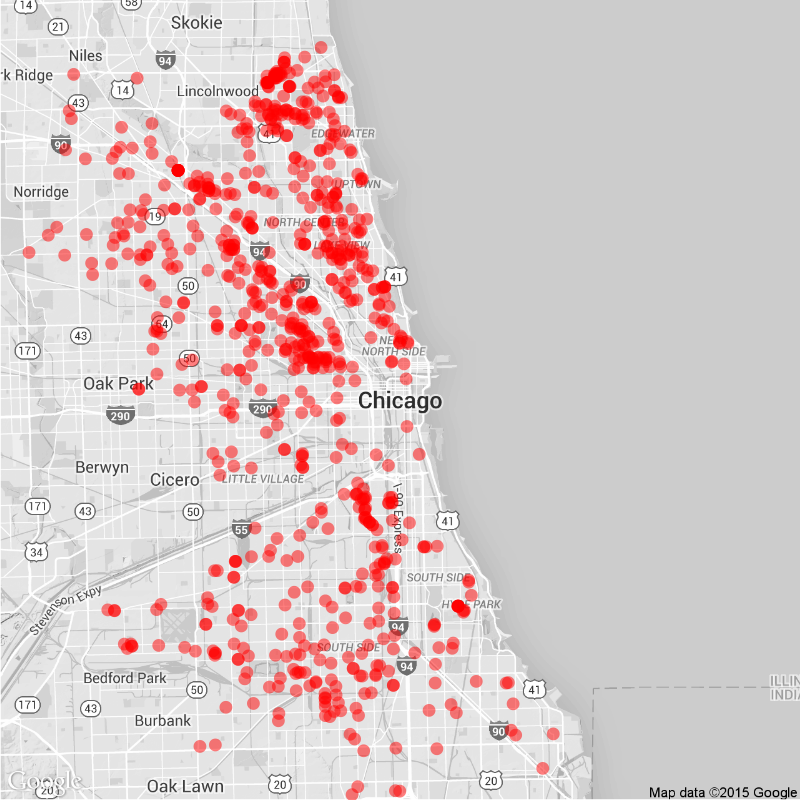
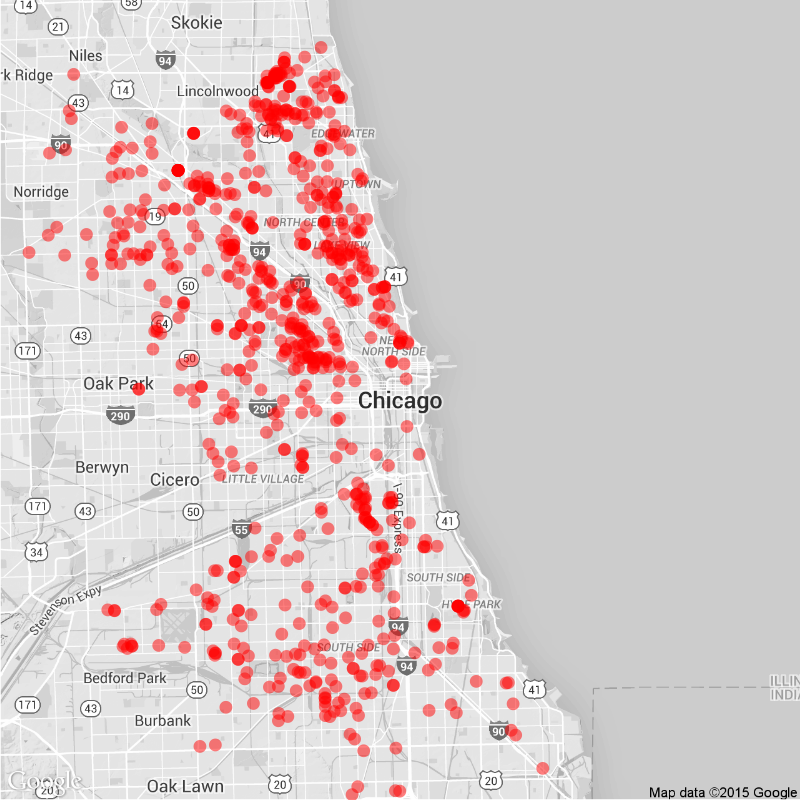
Daily Maps

diff --git a/daily.md b/daily.md
@@ -15,22 +15,22 @@ tags: Chicago NYC weekly daily rats
 
 ### Daily
 
-Yesterday (May 29), there were 117 calls to Chicago's 311 line about rats.
+Yesterday (May 30), there were 38 calls to Chicago's 311 line about rats.
 ![Chicago rat calls to 311 weekly map]({{ site.cityimages }}/daily/Chicago_Rat_Map_Daily.png)
 
 ### Weekly
-Between May 23 and May 29, there were 795 calls to Chicago's 311 line about rats. The average number of weekly calls for this time of year is 731.
+Between May 24 and May 30, there were 794 calls to Chicago's 311 line about rats. The average number of weekly calls for this time of year is 731.
 ![Chicago rat calls to 311 weekly map]({{ site.cityimages }}/daily/Chicago_Rat_Map_Weekly.png)
 ***
 # New York City <a id="nyc"><a>
 
 ### Daily
 
-Yesterday (May 29), there were 0 calls to New York City's 311 line about rats.
+Yesterday (May 30), there were 0 calls to New York City's 311 line about rats.
 ![NYC rat calls to 311 weekly map]({{ site.cityimages }}/daily/NYC_Rat_Map_Daily.png)
 
 ### Weekly
-Between May 23 and May 29, there were 0 calls to New York City's 311 line about rats. The average number of weekly calls for this time of year is 271.
+Between May 24 and May 30, there were 0 calls to New York City's 311 line about rats. The average number of weekly calls for this time of year is 271.
 ![NYC rat calls to 311 weekly map]({{ site.cityimages }}/daily/NYC_Rat_Map_Weekly.png)
 
 Each red dot represents one call about a rat seen in that location. The dots are transparent, so multiple calls from one location will be seen as a solid dot. The usual caveats apply: more calls do not necessarily mean that there are more rats in that location than other parts of the city. A cluster of dots could indicate that one resident is unusually vocal about rodents in his or her neighborhood. Also, more densely populated neighborhoods tend to make more calls to 311.
